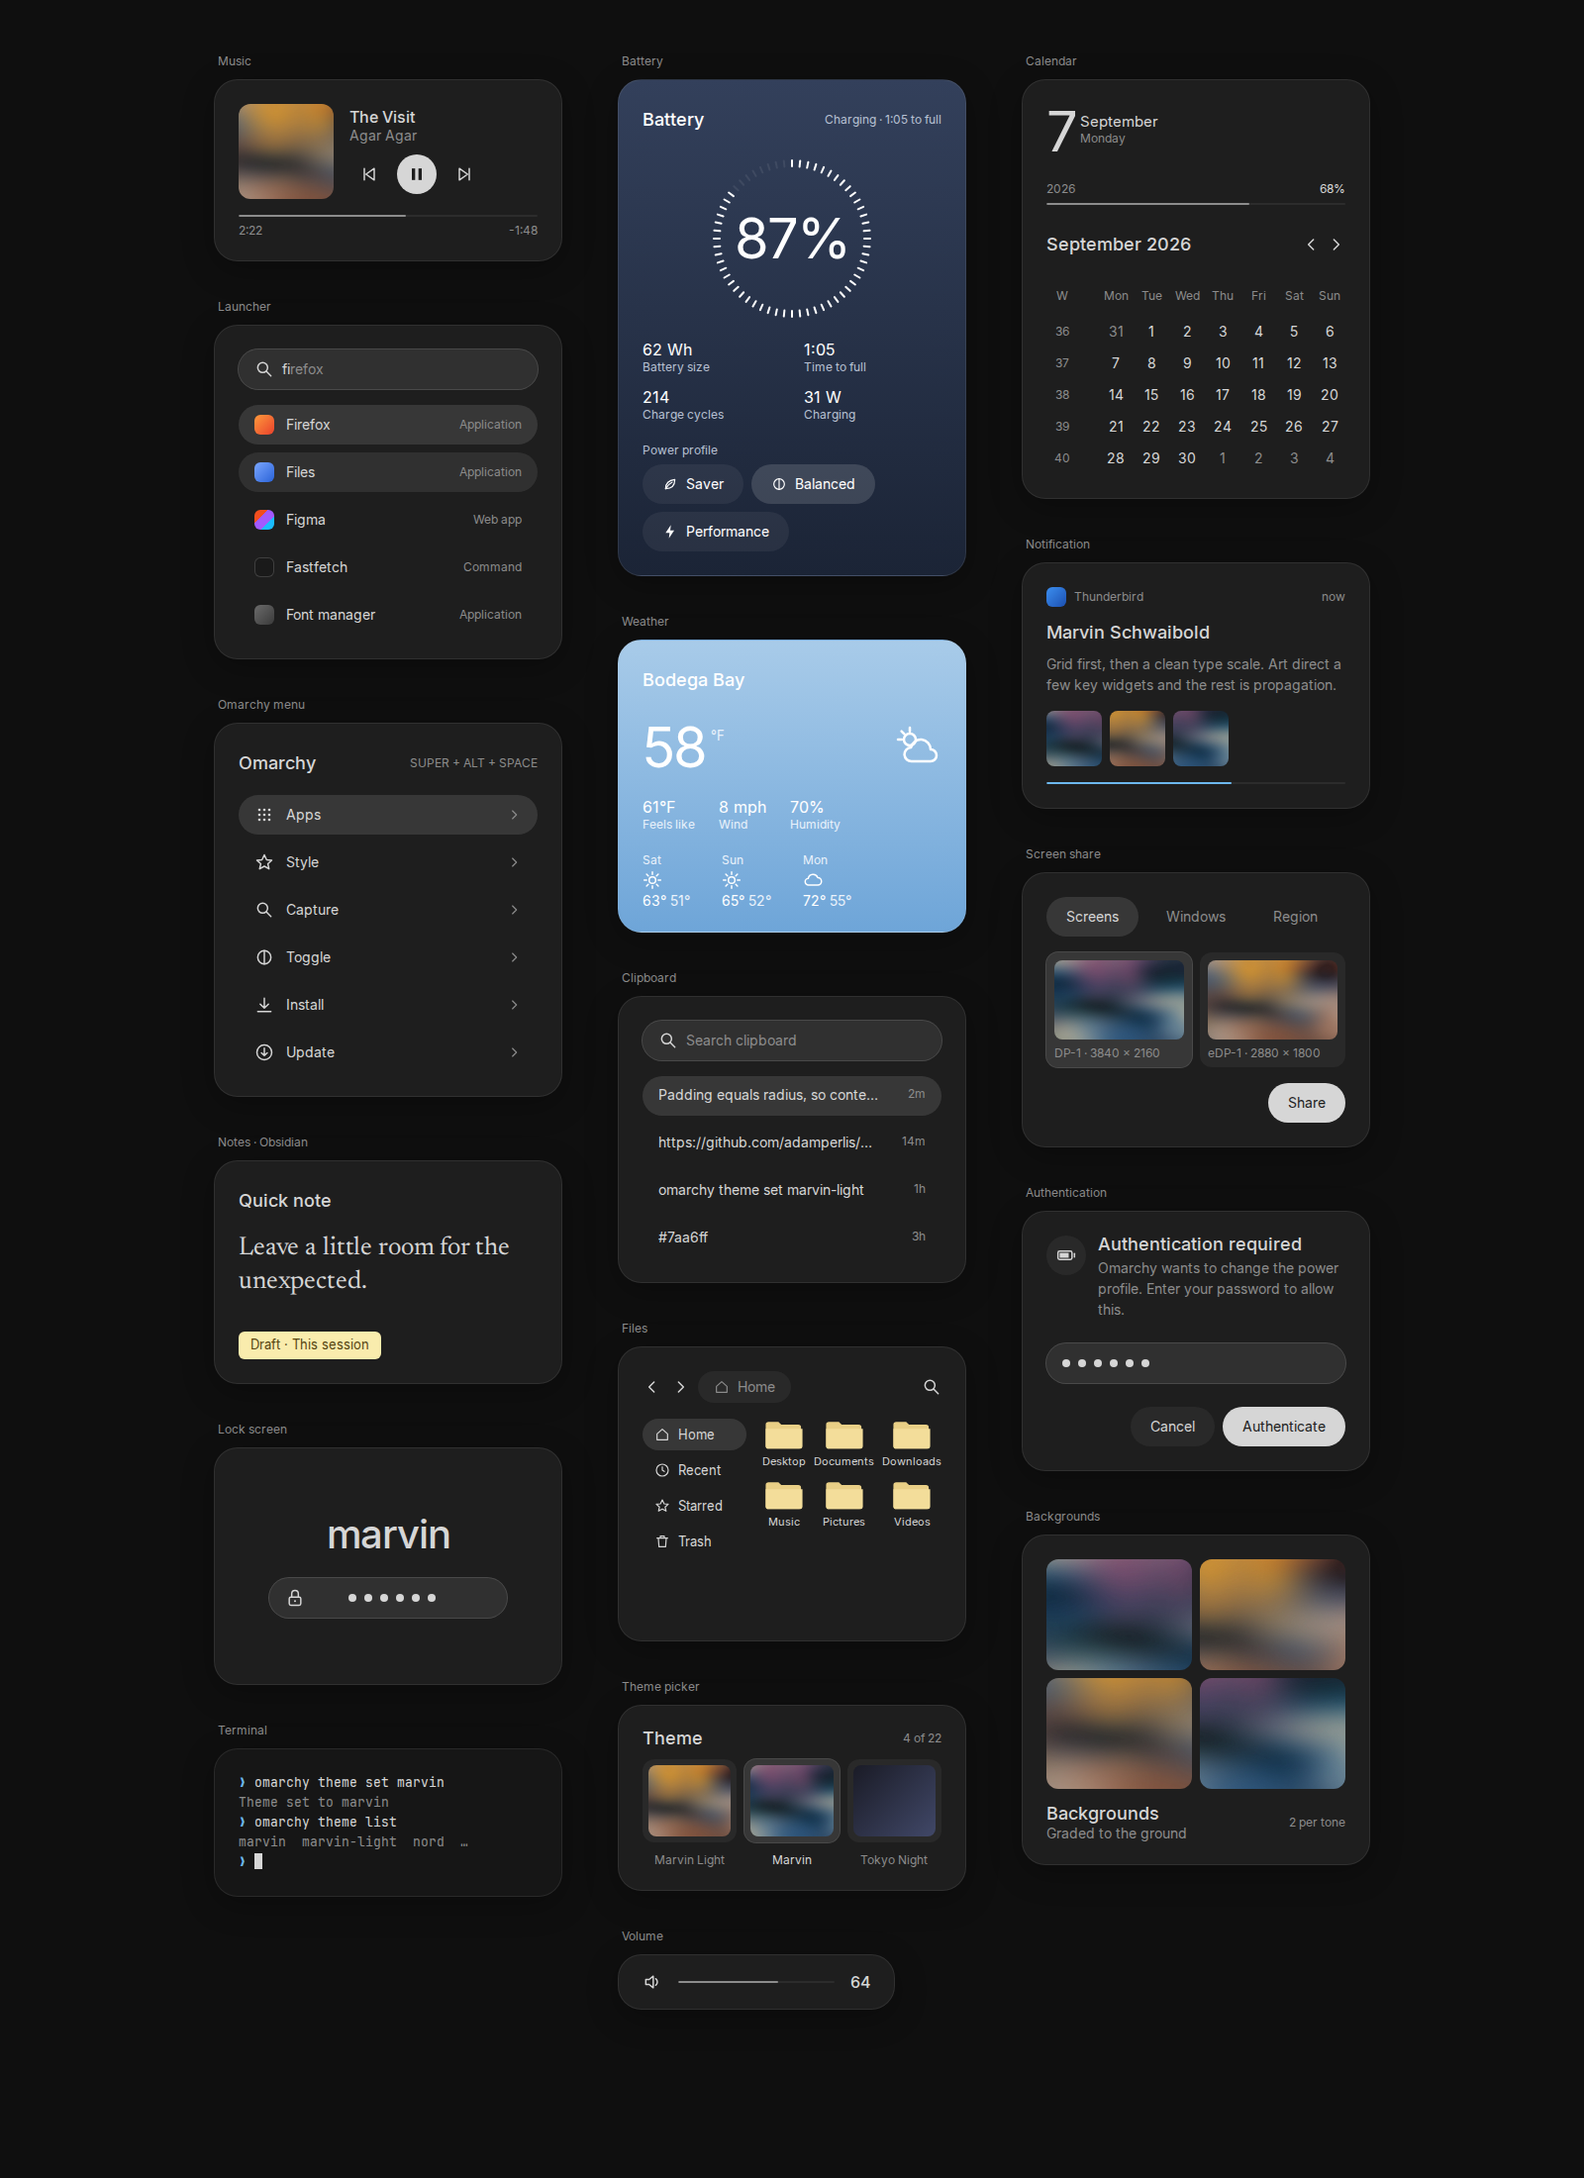
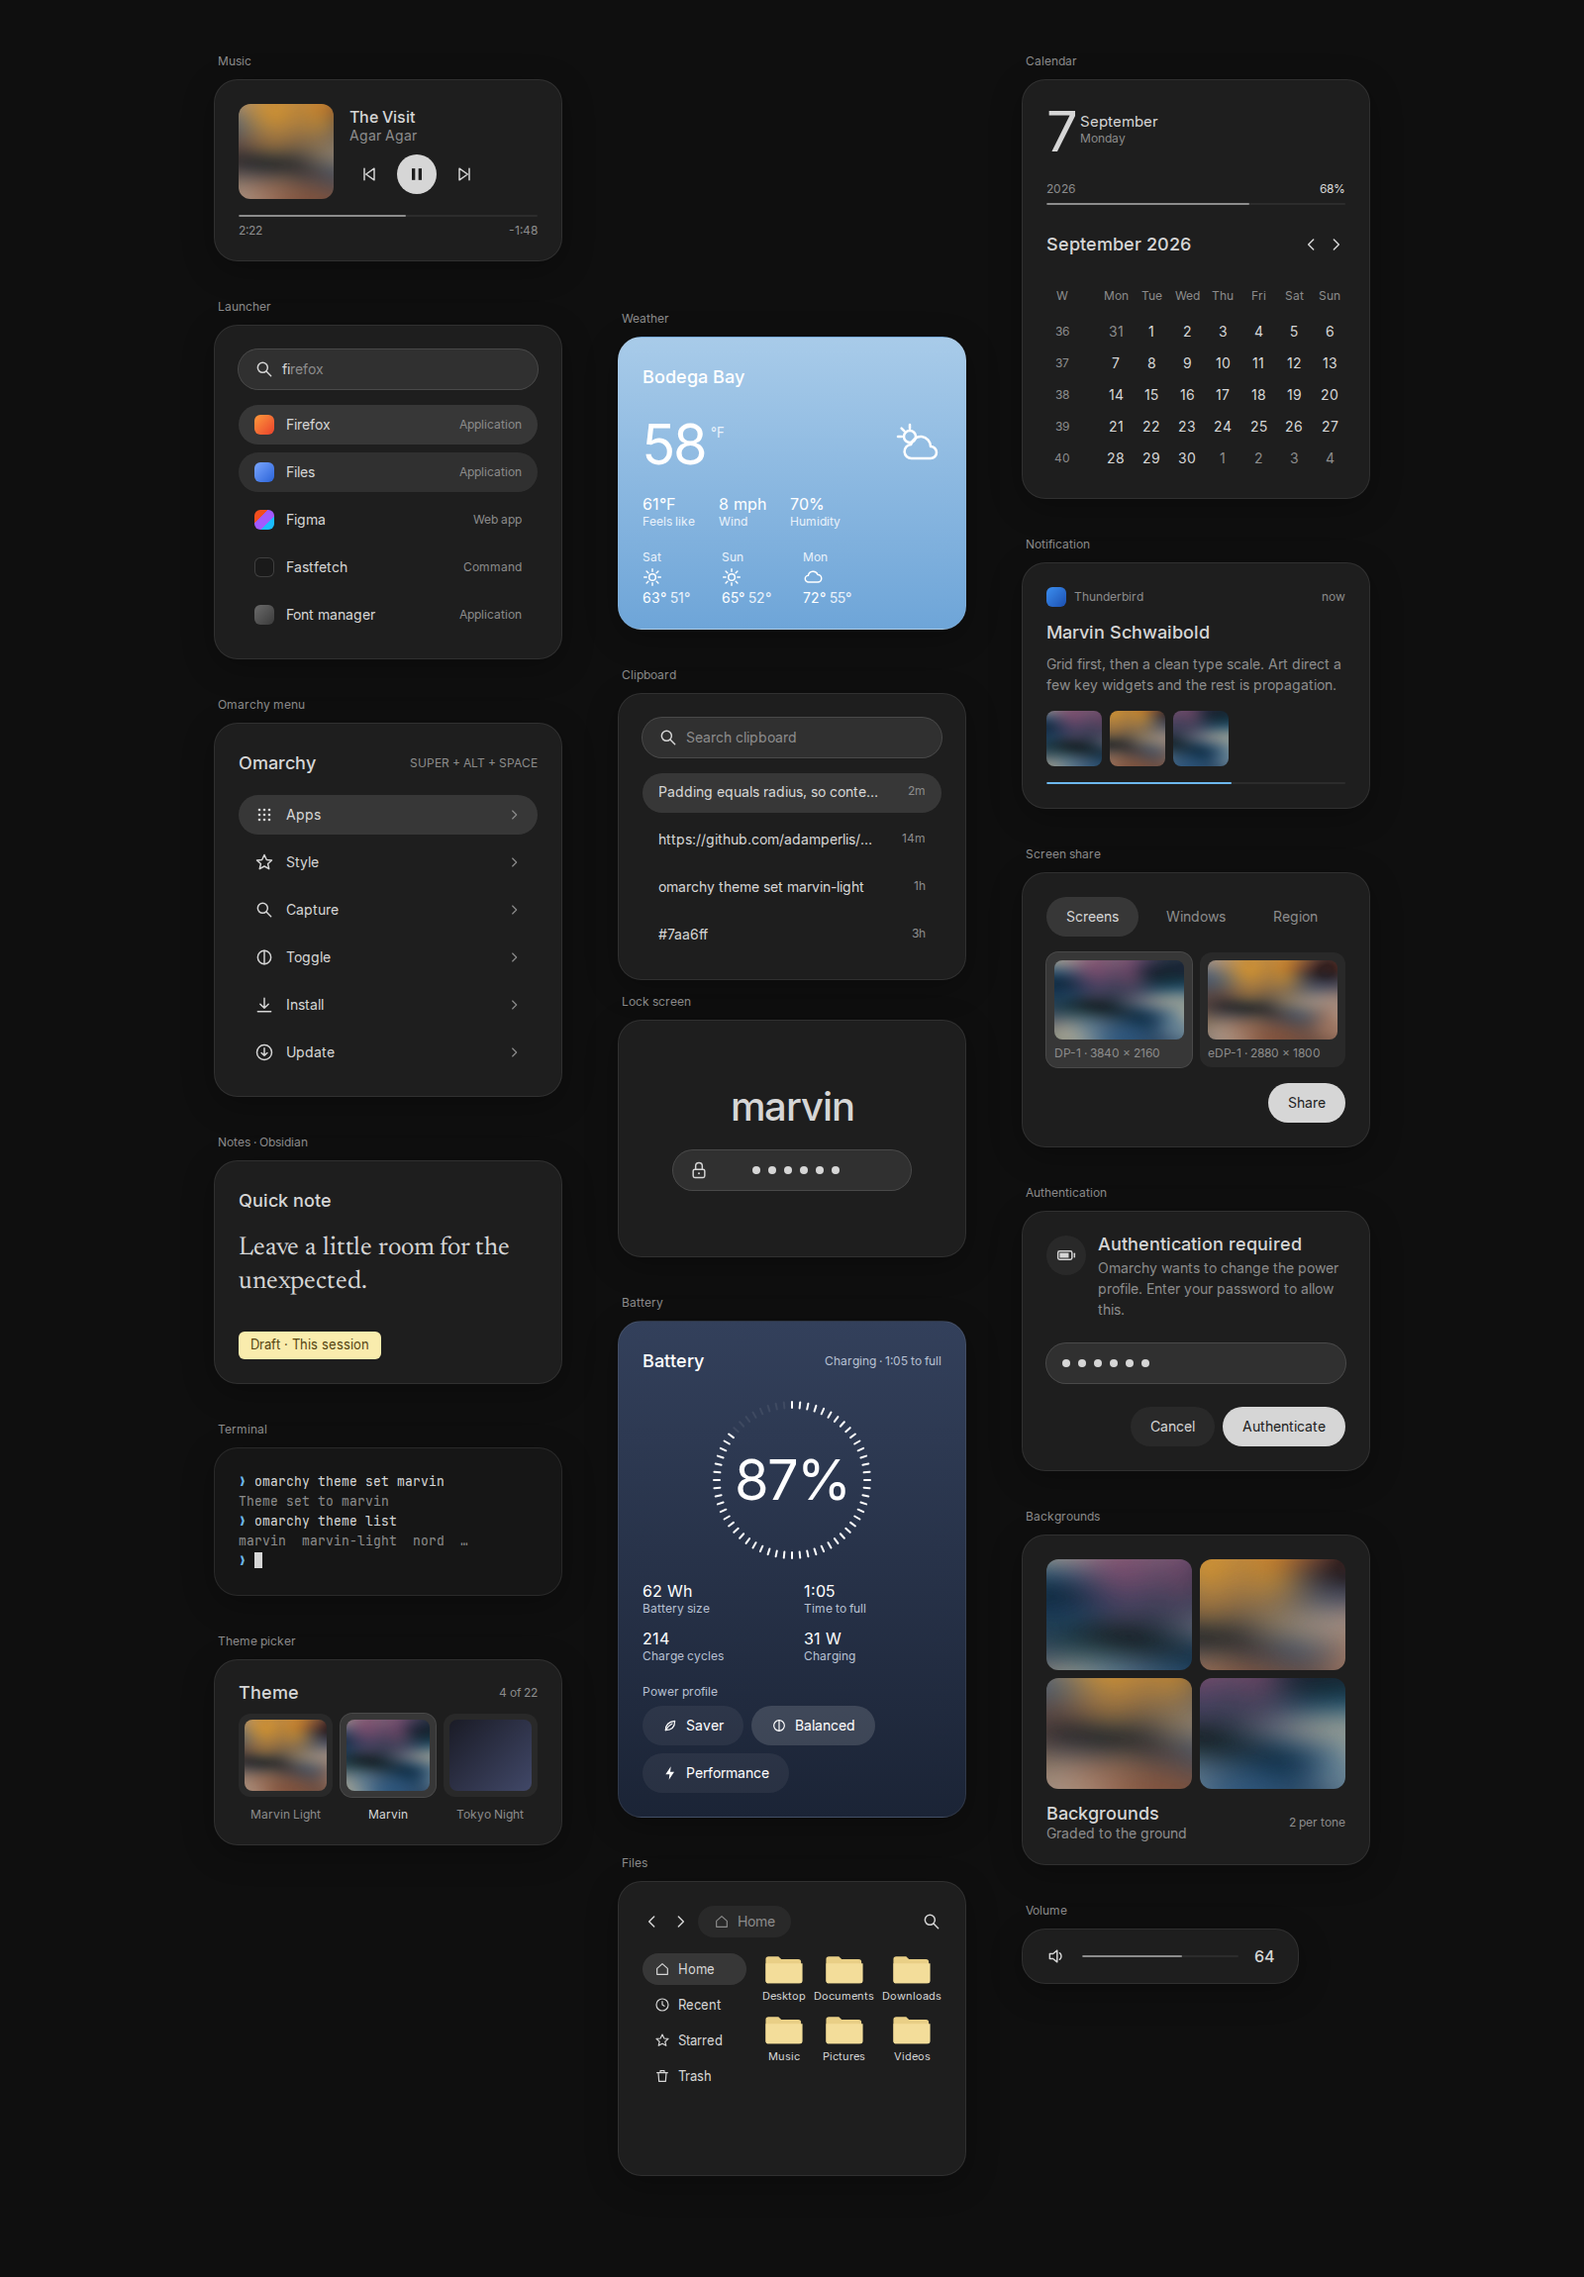
Centre the lock card on the widget sheet
The lock card sits at the dead centre of the sheet, measured: its
bounds are 1031–1268 on a 2300 page, x 625–974 on 1600. The middle
column stacks away from it, weather and clipboard above, battery and
files below; theme picker and volume move to the outer columns.

Claude-Session: https://claude.ai/code/session_017caxMJD9sdbPw1WF3LGrYR

diff --git a/tools/previews/build.py b/tools/previews/build.py
@@ -329,18 +329,21 @@ def sheet(t, fonts):
     w = widgets(t)
     ground = "#f5f5f5" if t["light"] else "#0f0f0f"
     def cell(label, html): return f'<div class="cell"><div class="lab">{label}</div>{html}</div>'
+    # The lock card sits at the dead centre of the sheet; the middle column
+    # stacks away from it, upward above and downward below.
     cols = [
-        cell("Music", w["media"]) + cell("Launcher", w["launcher"]) + cell("Omarchy menu", w["menu"]) + cell("Notes · Obsidian", w["notes"]) + cell("Lock screen", w["lock"]) + cell("Terminal", w["terminal"]),
-        cell("Battery", w["power"]) + cell("Weather", w["weather"]) + cell("Clipboard", w["clipboard"]) + cell("Files", w["files"]) + cell("Theme picker", w["themes"]) + cell("Volume", w["osd"]),
-        cell("Calendar", w["clock"]) + cell("Notification", w["note"]) + cell("Screen share", w["picker"]) + cell("Authentication", w["polkit"]) + cell("Backgrounds", w["mood"]),
+        cell("Music", w["media"]) + cell("Launcher", w["launcher"]) + cell("Omarchy menu", w["menu"]) + cell("Notes · Obsidian", w["notes"]) + cell("Terminal", w["terminal"]) + cell("Theme picker", w["themes"]),
+        f'<div class="up">{cell("Weather", w["weather"]) + cell("Clipboard", w["clipboard"])}</div><div class="lockcell">{cell("Lock screen", w["lock"])}</div><div class="down">{cell("Battery", w["power"]) + cell("Files", w["files"])}</div>',
+        cell("Calendar", w["clock"]) + cell("Notification", w["note"]) + cell("Screen share", w["picker"]) + cell("Authentication", w["polkit"]) + cell("Backgrounds", w["mood"]) + cell("Volume", w["osd"]),
     ]
     return f"""<!doctype html><html><head><meta charset="utf-8"><style>{font_face(fonts)}{vars_css(t)}{BASE_CSS}
-html,body{{width:1600px;height:2200px;overflow:hidden}}body{{background:{ground};padding:56px 0}}
+html,body{{width:1600px;height:2300px;overflow:hidden}}body{{background:{ground};padding:56px 0}}
 .g{{display:grid;grid-template-columns:352px 352px 352px;gap:0 56px;justify-content:center;align-items:start}}
 .col{{display:flex;flex-direction:column;gap:40px}}
+.mid{{position:relative;height:2188px}}.mid .up,.mid .down{{position:absolute;left:0;right:0;display:flex;flex-direction:column;gap:40px}}.mid .up{{bottom:calc(50% + 160px)}}.mid .down{{top:calc(50% + 160px)}}.mid .lockcell{{position:absolute;left:0;right:0;top:calc(50% - 144px)}}
 .cell{{display:flex;flex-direction:column;gap:12px}}.lab{{font-size:12px;color:var(--muted);padding-left:4px}}
 .card,.note,.launcher{{width:352px}}
-</style></head><body><div class="g">{"".join(f'<div class="col">{c}</div>' for c in cols)}</div></body></html>"""
+</style></head><body><div class="g">{"".join(f'<div class="col{" mid" if i == 1 else ""}">{c}</div>' for i, c in enumerate(cols))}</div></body></html>"""
 
 if __name__ == "__main__":
     ap = argparse.ArgumentParser(); ap.add_argument("--fonts", required=True); ap.add_argument("--out", default=str(ROOT)); a = ap.parse_args()
@@ -351,7 +354,7 @@ if __name__ == "__main__":
         for name, html, size, dests in (
             ("desktop", desktop(t, a.fonts), (1800, 1012), [out / f"{pre}preview.png"]),
             ("boot", boot(t, a.fonts), (1920, 1080), [out / f"{pre}preview-unlock.png"]),
-            ("widgets", sheet(t, a.fonts), (1600, 2200), [out / f"docs/images/widgets-{tag}.png"]),
+            ("widgets", sheet(t, a.fonts), (1600, 2300), [out / f"docs/images/widgets-{tag}.png"]),
             ("workspace", workspace(t, a.fonts), (1800, 1012), [out / f"docs/images/workspace-{tag}.png"]),
             ("backgrounds", backgrounds(t, a.fonts), (1600, 560), [out / f"docs/images/backgrounds-{tag}.png"]),
         ):
